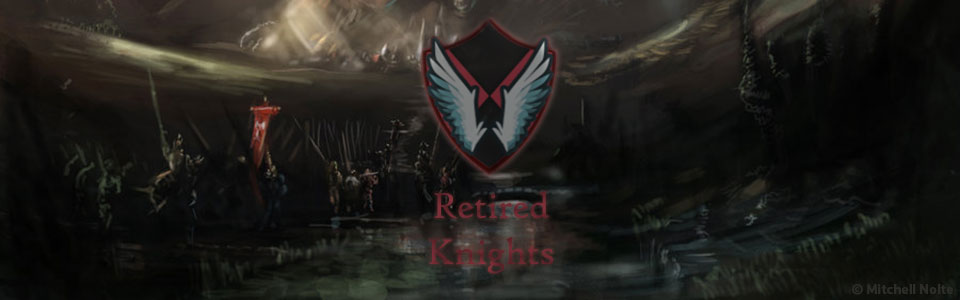
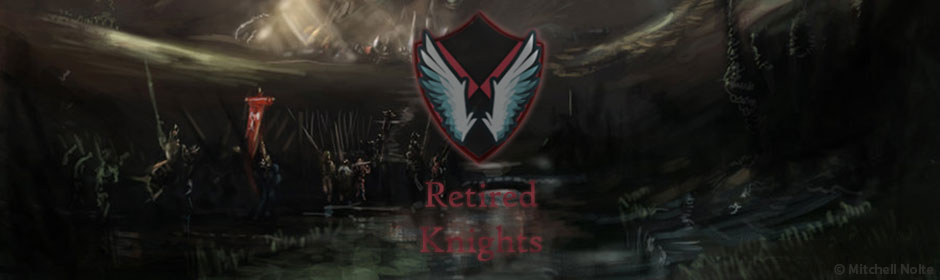
Corrected image size

diff --git a/css/style.css b/css/style.css
@@ -35,7 +35,7 @@ ul {
 }
 
 .site-banner {
-    height: 300px;
+    height: 280px;
     background: url("../images/banner.jpg");
     margin: 10px 10px 0 10px;
 }
